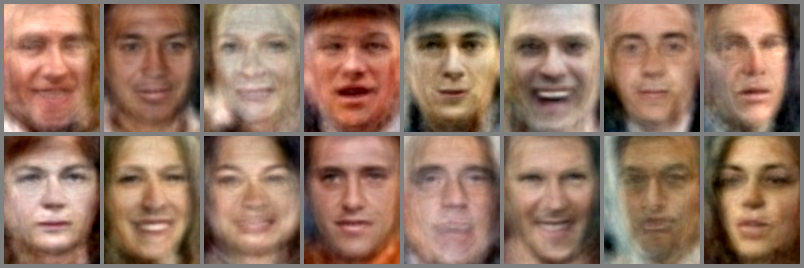
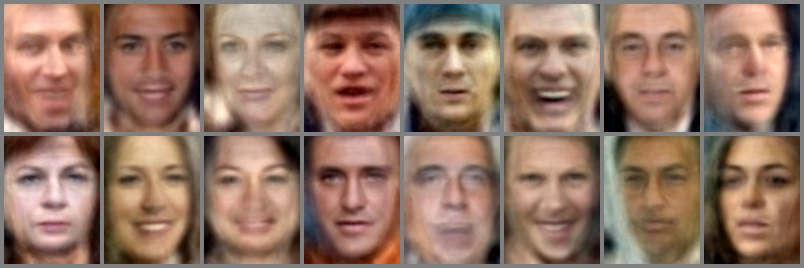
update linearAE.py

diff --git a/linearAE.py b/linearAE.py
@@ -55,13 +55,13 @@ if __name__ == '__main__':
     network = NN(D=D, H=H)
     model = network.to(device)
     print(model)
-    #optimizer = optim.SGD(model.parameters(), lr = 0.01, momentum = 0.9)
-    optimizer = optim.Adam(model.parameters())
+    #optimizer = optim.Adam(model.parameters())  # lr=0.001
+    optimizer = optim.Adam(model.parameters(), lr=0.0005)
     print(optimizer)
 
     ### learning
     #
-    nepoch = 100
+    nepoch = 50
 
     for i in range(nepoch):
 
@@ -73,19 +73,20 @@ if __name__ == '__main__':
 
             optimizer.zero_grad()
             Z = model(Xb)
-            loss = F.mse_loss(Xb, Z, reduction='sum')
+            loss = F.mse_loss(Xb, Z, reduction='mean')
             loss.backward()
             optimizer.step()
 
             sqeL[ib] = loss.clone().cpu().detach().numpy()
             
-        msqeL = np.sum(sqeL) / (NL*D)
+        msqeL = np.mean(sqeL) # We can compute 'mean of the means' so that all the batch has the same size.
         print(i, msqeL)
 
 
     ### evaluation (L)
     #
     model.eval()
+    dlL = torch.utils.data.DataLoader(dsL, batch_size=batchsize, shuffle=False, drop_last=False)
 
     for ib, Xb in enumerate(dlL):
         Z = model(Xb)
@@ -96,16 +97,14 @@ if __name__ == '__main__':
 
     print(f'# L: {msqeL}')
 
-    ### preparing the data (T)
+    ### evaluation & reconstruction (T)
     #
+    model.eval()
     dsT = LFWDataset.LFWDataset(LT='T')
     NT = dsT.ndat
     print(NT, D)
     dlT = torch.utils.data.DataLoader(dsT, batch_size=batchsize, shuffle=False, drop_last=False)
 
-    ### evaluation & reconstruction (T)
-    #
-    model.eval()
     sqeT = np.empty(len(dlT))
     for ib, Xb in enumerate(dlT):
         Z = model(Xb)
